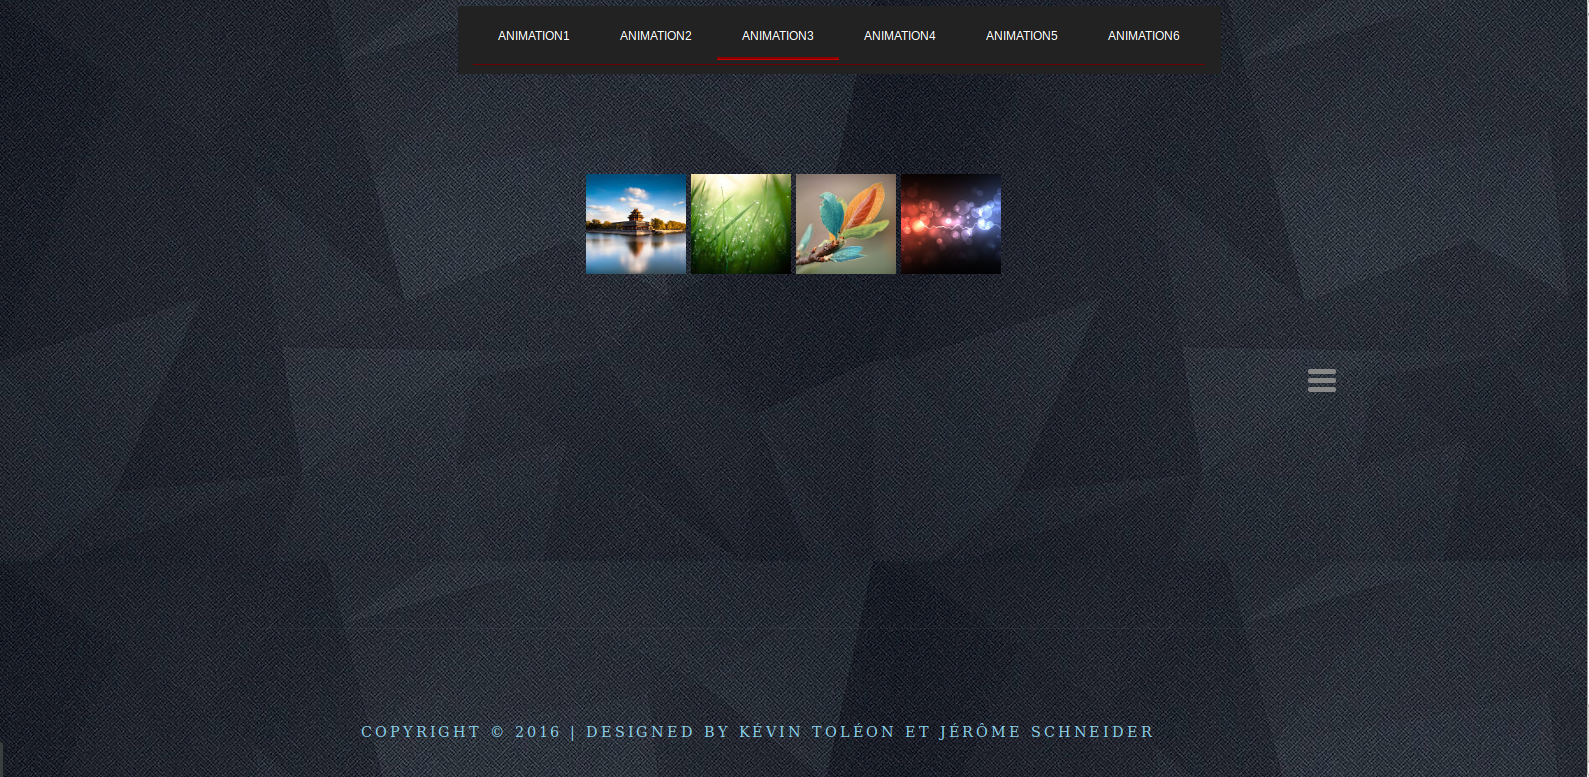
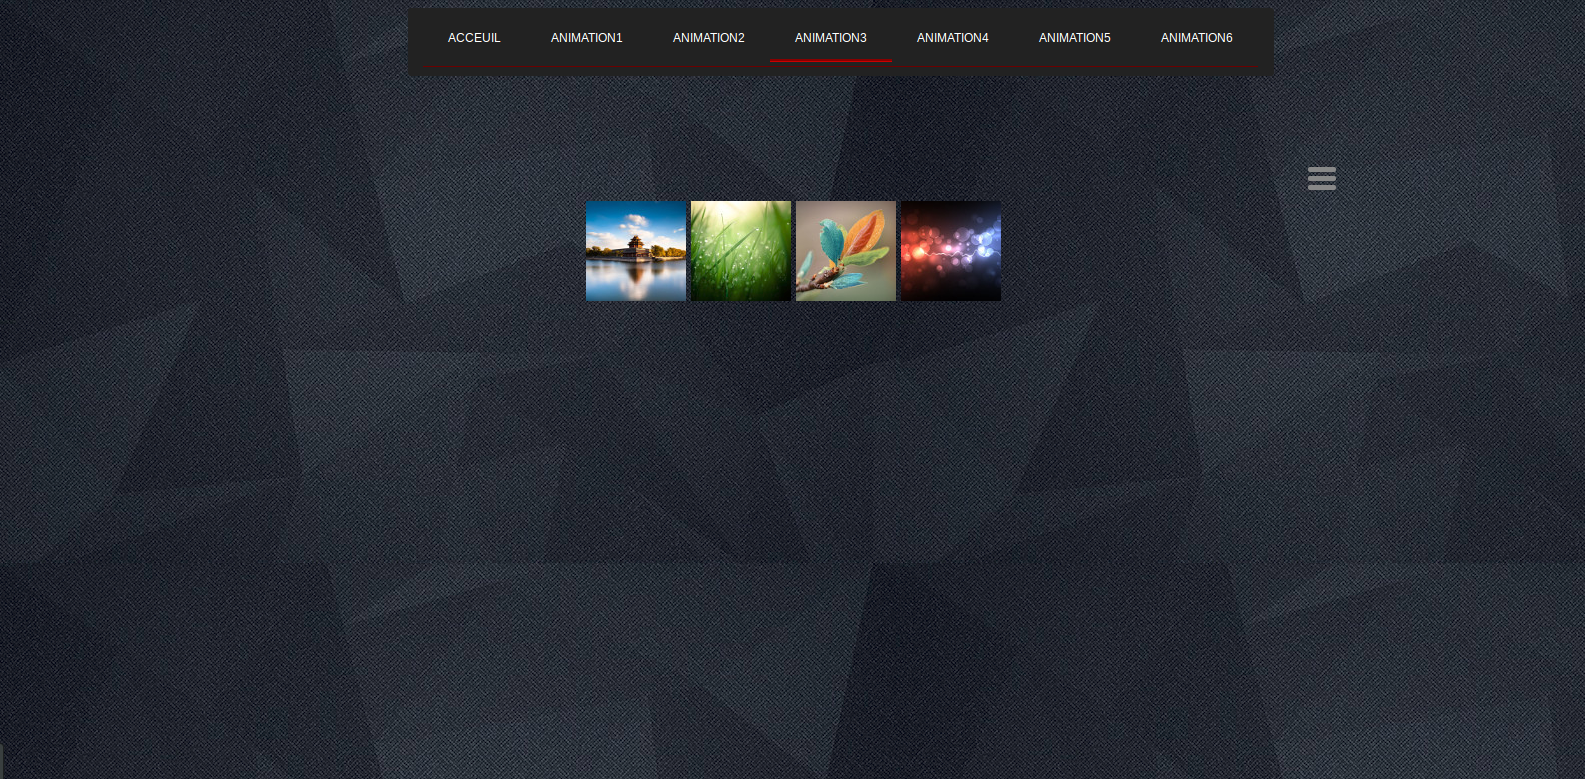
update

Changed region(s): [[0.0, 0.0, 1.0, 1.0], [0.1546, 0.2471, 0.1855, 0.278]]

diff --git a/CSS/styleAppweb.css b/CSS/styleAppweb.css
@@ -5,7 +5,16 @@
 body
 {
     background-image: url("../images/fond2.jpeg");
-    color:white;
+    color:skyblue;
+}
+
+  /*********************************************************************************/
+/* APPWEB                                                                         */
+/*********************************************************************************/
+#appweb
+{
+    text-align: center;
+    font-family: Impact, "Comic Sans MS", Arial, Verdana, sans-serif;
 }
 	/*********************************************************************************/
 /* Menu                                                                          */
@@ -18,7 +27,7 @@ body
     padding: 15px;
     border-radius: 3px;
     box-sizing: content-box;
-    margin-left: 450px;
+    margin-left: 400px;
    
 }
 #menu2
@@ -74,8 +83,9 @@ body
 	#container {
     width: 400px;
     height: 400px;
-    position: relative;
+    position: absolute;
     background: black;
+   
 }
 #animate {
     width: 50px;
@@ -91,7 +101,7 @@ body
 } 
 
 	/*********************************************************************************/
-/*  animation couleur                                                                        */
+/*  animation block deplacement                                                                       */
 /*********************************************************************************/
 
 
@@ -163,11 +173,14 @@ body
 }
 
 #p1 {
-    margin-top: 100px;
+    margin-top: -150px;
     text-align: center;
 }
 
-/*animation bloc*/
+  /*********************************************************************************/
+/* animation bloc                                                                    */
+/*********************************************************************************/
+
 .draggableBox {
 
   
@@ -193,6 +206,7 @@ body
         padding: 5em 0em;
         bottom: 5em 0em;
         border-top: 1px solid rgba(255,255,255,0.05);
+        margin-top: 200px;
     }
     
     #copyright p
@@ -360,5 +374,6 @@ canvas {
   height: 50%;
   background: #000;
   position: absolute;
-  margin-left: 300px;
+  margin-left: 400px;
+  margin-top: -200px;
 }

diff --git a/html/Animation5.html b/html/Animation5.html
@@ -12,21 +12,22 @@
 </head>
 
 
-<body>
+
 <body>
 <div id="menu">
-	<div id='menu2'> 
-			<ul id='ul1'>
-				<li><a href="Animation1.html" accesskey="1" title="">Animation1</a></li>
-				<li><a href="Animation2.html" accesskey="2" title="">Animation2</a></li>
-				<li><a href="Animation3.html" accesskey="3" title="">Animation3</a></li>
-				<li><a href="Animation4.html" accesskey="5" title="">Animation4</a></li>
-				<li><a href="Animation5.html" accesskey="5" title="">Animation5</a></li>
-				<li><a href="Animation6.html" accesskey="5" title="">Animation6</a></li>
-				
-			</ul>
-			</div>
-		</div>
+  <div id='menu2'> 
+      <ul id='ul1'>
+        <li><a href="appweb.html" accesskey="0" title="">Acceuil</a></li>
+        <li><a href="Animation1.html" accesskey="1" title="">Animation1</a></li>
+        <li><a href="Animation2.html" accesskey="2" title="">Animation2</a></li>
+        <li><a href="Animation3.html" accesskey="3" title="">Animation3</a></li>
+        <li><a href="Animation4.html" accesskey="5" title="">Animation4</a></li>
+        <li><a href="Animation5.html" accesskey="5" title="">Animation5</a></li>
+        <li><a href="Animation6.html" accesskey="5" title="">Animation6</a></li>
+        
+      </ul>
+      </div>
+    </div>
 
 			<a href="#minimenu" id="toggle"><span></span></a>
 
@@ -46,12 +47,14 @@
     <img id="vr" src="../images/vr.png">
   </div>
 
-		<footer>
-	<div id="copyright" class="contain">
-   			
-	<p>Copyright © 2016 | Designed by Kévin Toléon et Jérôme Schneider </a> 
+<footer>
+<div id="copyright" class="contain">
+
+                
+  <p>Copyright © 2016 | Designed by Kévin Toléon et Jérôme Schneider </P> 
+    <p>Contact:<a href="https://github.com/ShaD971">GIT HUB</a></p>
 </div>
-</footer>
+  </footer>
 
     <script src="../js/menuJS.js"></script>
     <script src="../js/jquery.js"></script>

diff --git a/html/Animation3.html b/html/Animation3.html
@@ -16,6 +16,7 @@
 <div id="menu">
 	<div id='menu2'> 
 			<ul id='ul1'>
+				<li><a href="appweb.html" accesskey="0" title="">Acceuil</a></li>
 				<li><a href="Animation1.html" accesskey="1" title="">Animation1</a></li>
 				<li><a href="Animation2.html" accesskey="2" title="">Animation2</a></li>
 				<li><a href="Animation3.html" accesskey="3" title="">Animation3</a></li>
@@ -24,8 +25,25 @@
 				<li><a href="Animation6.html" accesskey="5" title="">Animation6</a></li>
 				
 			</ul>
-			</div>
-		</div>
+	</div>
+</div>
+
+		
+
+		<div id="overlay"></div>
+
+
+<a href="#minimenu" id="toggle"><span></span></a>
+
+<div id="minimenu">
+  <ul>
+    <li><a href="#home">Agrandir image</a></li>
+    <li><a href="#about">clik sur limage</a></li>
+    <li><a href="#contact"> Designed by Kévin Toléon et Jérôme Schneider</a></li>
+  </ul>
+</div>
+
+
 
 <p id='p1'>
 
@@ -40,33 +58,24 @@
 </p>
 
 
-<div id="overlay"></div>
 
-
-<a href="#minimenu" id="toggle"><span></span></a>
-
-<div id="minimenu">
-  <ul>
-    <li><a href="#home">Agrandir image</a></li>
-    <li><a href="#about">clik sur limage</a></li>
-    <li><a href="#contact"> Designed by Kévin Toléon et Jérôme Schneider</a></li>
-  </ul>
-</div>
 
 <footer>
-	<div id="copyright" class="contain">
-   			
-	<p>Copyright © 2016 | Designed by Kévin Toléon et Jérôme Schneider </a> 
-</div>
-</footer>
+<div id="copyright" class="contain">
 
-	<script src="../js/menuJS.js"></script>
-    
-    <script src="../js/AnimationImages.js"></script>
+	        			
+	<p>Copyright © 2016 | Designed by Kévin Toléon et Jérôme Schneider </P> 
+		<p>Contact:<a href="https://github.com/ShaD971">GIT HUB</a></p>
+</div>
+	</footer>
+
+
      
 
 
 </body>
 
-
+	<script src="../js/menuJS.js"></script>
+    
+    <script src="../js/AnimationImages.js"></script>
 </html>

diff --git a/html/Animation6.html b/html/Animation6.html
@@ -12,11 +12,12 @@
 </head>
 
 
-<body>
+
 <body>
 <div id="menu">
 	<div id='menu2'> 
 			<ul id='ul1'>
+				<li><a href="appweb.html" accesskey="0" title="">Acceuil</a></li>
 				<li><a href="Animation1.html" accesskey="1" title="">Animation1</a></li>
 				<li><a href="Animation2.html" accesskey="2" title="">Animation2</a></li>
 				<li><a href="Animation3.html" accesskey="3" title="">Animation3</a></li>
@@ -32,18 +33,20 @@
 
 <div id="minimenu">
   <ul>
-    <li><a href="#home">iconue</a></li>
-    <li><a href="#about">en cour de developpement</a></li>
+    <li><a href="#home">Animation</a></li>
+    <li><a href="#about">passer la souris sur l'animation</a></li>
     <li><a href="#contact"> Designed by Kévin Toléon et Jérôme Schneider</a></li>
   </ul>
 </div>
 
-	<footer>
-	<div id="copyright" class="contain">
-   			
-	<p>Copyright © 2016 | Designed by Kévin Toléon et Jérôme Schneider </a> 
+<footer>
+<div id="copyright" class="contain">
+
+	        			
+	<p>Copyright © 2016 | Designed by Kévin Toléon et Jérôme Schneider </P> 
+		<p>Contact:<a href="https://github.com/ShaD971">GIT HUB</a></p>
 </div>
-</footer>
+	</footer>
 
 
     <script src="../js/menuJS.js"></script>

diff --git a/html/Animation1.html b/html/Animation1.html
@@ -15,6 +15,7 @@
 <div id="menu">
 	<div id='menu2'> 
 			<ul id='ul1'>
+				<li><a href="appweb.html" accesskey="0" title="">Acceuil</a></li>
 				<li><a href="Animation1.html" accesskey="1" title="">Animation1</a></li>
 				<li><a href="Animation2.html" accesskey="2" title="">Animation2</a></li>
 				<li><a href="Animation3.html" accesskey="3" title="">Animation3</a></li>
@@ -46,13 +47,14 @@
 
     <script src="../js/menuJS.js"></script>   
     <script src="../js/Animationcarre.js"></script>
-    <footer>
-    <div id="copyright" class="contain">
+<footer>
+<div id="copyright" class="contain">
 
 	        			
-	<p>Copyright © 2016 | Designed by Kévin Toléon et Jérôme Schneider </a> 
+	<p>Copyright © 2016 | Designed by Kévin Toléon et Jérôme Schneider </P> 
+		<p>Contact:<a href="https://github.com/ShaD971">GIT HUB</a></p>
 </div>
-</footer>
+	</footer>
 
 
 </body>

diff --git a/html/Animation4.html b/html/Animation4.html
@@ -17,6 +17,7 @@
 <div id="menu">
 	<div id='menu2'> 
 			<ul id='ul1'>
+				<li><a href="appweb.html" accesskey="0" title="">Acceuil</a></li>
 				<li><a href="Animation1.html" accesskey="1" title="">Animation1</a></li>
 				<li><a href="Animation2.html" accesskey="2" title="">Animation2</a></li>
 				<li><a href="Animation3.html" accesskey="3" title="">Animation3</a></li>
@@ -50,11 +51,13 @@
 </div>
 
 <footer>
-	<div id="copyright" class="contain">
-   			
-	<p>Copyright © 2016 | Designed by Kévin Toléon et Jérôme Schneider </a> 
+<div id="copyright" class="contain">
+
+	        			
+	<p>Copyright © 2016 | Designed by Kévin Toléon et Jérôme Schneider </P> 
+		<p>Contact:<a href="https://github.com/ShaD971">GIT HUB</a></p>
 </div>
-</footer>
+	</footer>
 
     <script src="../js/menuJS.js"></script>
     <script src="../js/AnimationBloc.js"></script>

diff --git a/html/Animation2.html b/html/Animation2.html
@@ -16,6 +16,7 @@
 <div id="menu">
 	<div id='menu2'> 
 			<ul id='ul1'>
+				<li><a href="appweb.html" accesskey="0" title="">Acceuil</a></li>
 				<li><a href="Animation1.html" accesskey="1" title="">Animation1</a></li>
 				<li><a href="Animation2.html" accesskey="2" title="">Animation2</a></li>
 				<li><a href="Animation3.html" accesskey="3" title="">Animation3</a></li>
@@ -46,12 +47,14 @@
   </ul>
 </div>
 
-	<footer>
-	<div id="copyright" class="contain">
-   			
-	<p>Copyright © 2016 | Designed by Kévin Toléon et Jérôme Schneider </a> 
+<footer>
+<div id="copyright" class="contain">
+
+	        			
+	<p>Copyright © 2016 | Designed by Kévin Toléon et Jérôme Schneider </P> 
+		<p>Contact:<a href="https://github.com/ShaD971">GIT HUB</a></p>
 </div>
-</footer>
+	</footer>
 
 
 <script src="../js/menuJS.js"></script>   

diff --git a/html/appweb.html b/html/appweb.html
@@ -26,12 +26,15 @@
 			</div>
 		</div>
 
-		
+		<div id="appweb">
+			<p>Notre site est un exemple de ce que nous pouvons faire en utilisant HTML, CSS et Javascript.</p>
+			<p><img src="../images/logo_html5.png"></p></div>
 <footer>
 <div id="copyright" class="contain">
 
 	        			
-	<p>Copyright © 2016 | Designed by Kévin Toléon et Jérôme Schneider </a> 
+	<p>Copyright © 2016 | Designed by Kévin Toléon et Jérôme Schneider </P> 
+		<p>Contact:<a href="https://github.com/ShaD971">GIT HUB</a></p>
 </div>
 	</footer>
 

diff --git a/js/AnimationBlockColor.js b/js/AnimationBlockColor.js
@@ -19,3 +19,4 @@ function deplacer(dx, dy)
     carre.style.backgroundColor = "#1ec5e5";
 }
 
+

diff --git a/README.md b/README.md
@@ -1,8 +1,12 @@
 # Projet_JS
-petite projet javascript
+Notre site est un exemple de ce que nous pouvons faire en utilisant HTML, CSS et Javascript.
 
 ### Screenshot
 
 <p align="center">
   <img src="https://github.com/ShaD971/Projet_JS/blob/master/images/screenshots1.png" alt="Screenshot"/>
 </p>
+<p align="center">
+  <img src="https://github.com/ShaD971/Projet_JS/blob/master/images/screenshots2.png" alt="Screenshot"/>
+</p>
+
